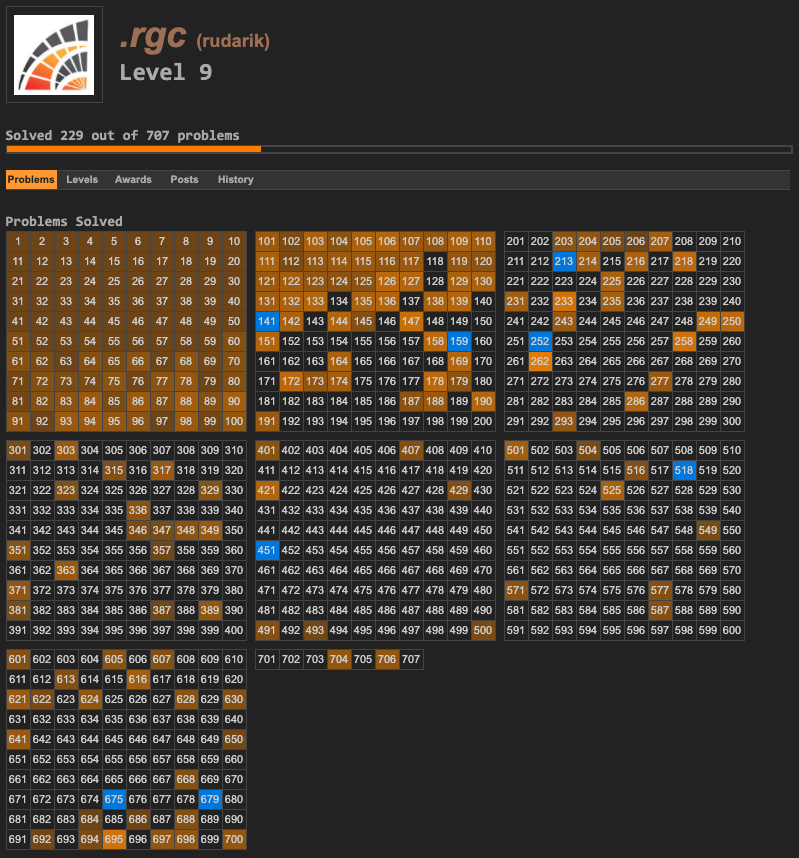
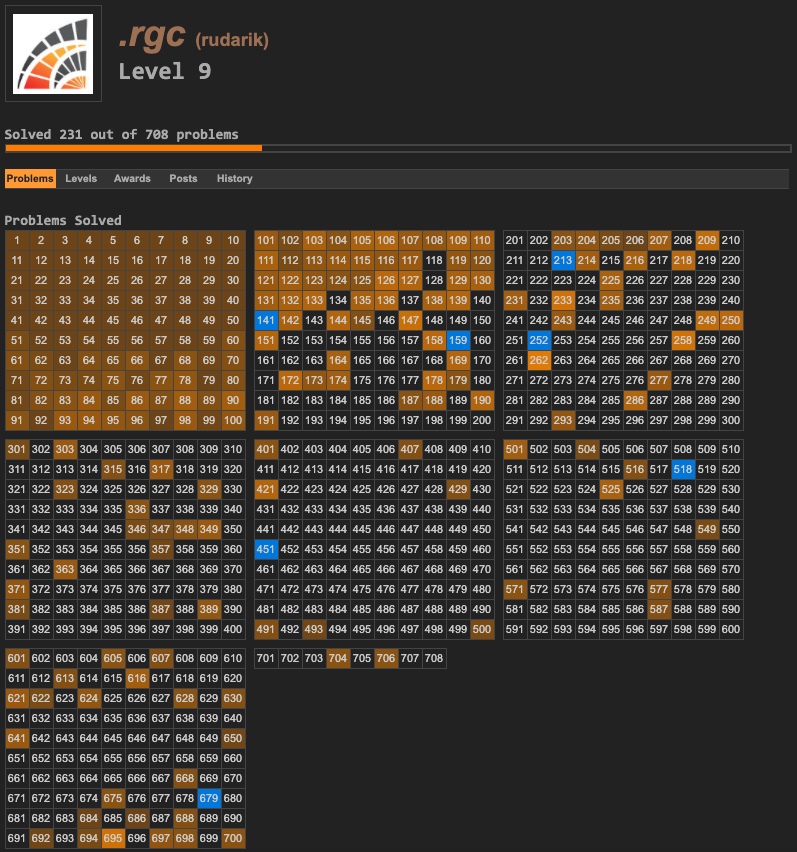
Solved PE675

diff --git a/README.md b/README.md
@@ -105,6 +105,16 @@ Problem 129: "Repunit divisibility", Problem 130: "Composites with prime repunit
 * [Random Sums of Random Variables](http://www.math.unl.edu/~sdunbar1/ProbabilityTheory/Lessons/Conditionals/RandomSums/randsum.shtml)
 Problem 389: "Platonic Dice"
 
+* [Lucas Number](https://en.wikipedia.org/wiki/Lucas_number)
+Problem 209: "Circular Logic"
+
+* [Multiplicative Function] (https://en.wikipedia.org/wiki/Multiplicative_function):
+Problem 675: "2^w(n)"
+
+* [Symmetric Polynomial] (https://en.wikipedia.org/wiki/Symmetric_polynomial)
+
+* [Generating Function] (https://en.wikipedia.org/wiki/Generating_function)
+
 * [Berlekamp-Massey Algorithm](https://en.wikipedia.org/wiki/Berlekamp%E2%80%93Massey_algorithm)
 
 * [Pell's Equation](https://en.wikipedia.org/wiki/Pell%27s_equation)
